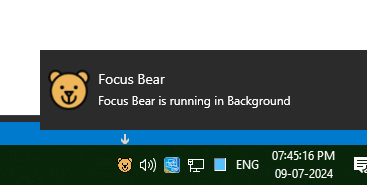
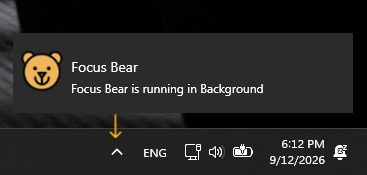
Fix tray menu tour translation and restore the full step-by-step tour (#1515)
* Show tray tour image in Spanish when the app language is Spanish

* Restore step-by-step tray menu tour and update its screenshots

* Register fbmenu-es.png as a build resource

diff --git a/Tour/FocusBearMenuTour.xaml.cs b/Tour/FocusBearMenuTour.xaml.cs
@@ -33,10 +33,12 @@ namespace Focus_Bear.Tour
 
             try
             {
-                btnNextTXT.Text = appSettings.ConfigFileStrings["menuTourVcInfo"]["buttonFinishText"].ToString();
+                btnNextTXT.Text = appSettings.ConfigFileStrings["menuTourVcInfo"]["buttonGetStartedText"].ToString();
                 Heading.Text = appSettings.ConfigFileStrings["menuTourVcInfo"]["title"].ToString();
 
                 Description.Text = appSettings.ConfigFileStrings["menuTourVcInfo"]["descriptionSystemTray"].ToString();
+
+                FBMenu.Source = GetLocalizedImage("fb-tray");
 
                 string sStep = appSettings.ConfigFileStrings["menuTourVcInfo"]["indexText"].ToString();
                 sStep = sStep.Replace("<CURRENTINDEX>", (nStep + 2).ToString()); //1
@@ -47,7 +49,34 @@ namespace Focus_Bear.Tour
             {
                 LogWriter.LogWrite("FocusBearMenuTour setting texts ex - " + ex.Message);
             }
-            
+
+        }
+
+        // Loads Images/{imageName}-{langCode}.png, falling back to Images/{imageName}.png
+        // when there is no image for the current app language yet.
+        private BitmapImage GetLocalizedImage(string imageName)
+        {
+            string folder = "Images";
+            string extension = ".png";
+            string lang = appSettings.sLangCode;
+
+            string localizedPath = $"pack://application:,,,/Focus Bear;component/{folder}/{imageName}-{lang}{extension}";
+            try
+            {
+                var bmp = new BitmapImage();
+                bmp.BeginInit();
+                bmp.CacheOption = BitmapCacheOption.OnLoad;
+                bmp.CreateOptions = BitmapCreateOptions.None;
+                bmp.UriSource = new Uri(localizedPath);
+                bmp.EndInit();
+                return bmp;
+            }
+            catch (Exception ex)
+            {
+                LogWriter.LogWrite("FocusBearMenuTour.GetLocalizedImage - " + ex.Message);
+                string defaultPath = $"pack://application:,,,/Focus Bear;component/{folder}/{imageName}{extension}";
+                return new BitmapImage(new Uri(defaultPath));
+            }
         }
 
         void SetTexts()
@@ -89,9 +118,49 @@ namespace Focus_Bear.Tour
         }
         private void btnNext_Click(object sender, RoutedEventArgs e)
         {
-            appSettings.bMenuOpeningFirstTime = true;
-            Close();
-            return;
+            nStep++;
+            if (nStep == 0) //we started with -1 for system tray info
+            {
+                // Generic intro for the new menu - points at the "Focus Bear" header
+                // row (top of the menu) instead of the middle of the image, since it
+                // isn't calling out a specific row.
+                FBMenu.Source = GetLocalizedImage("fbmenu");
+
+                btnNextTXT.Text = appSettings.ConfigFileStrings["menuTourVcInfo"]["buttonNextText"].ToString();
+                SetTexts();
+                GridPopup.Margin = new Thickness(0, 0, 370, 350);
+                Arrow.Margin = new Thickness(0, 0, 350, 405);
+
+                appSettings.CapturePostHog("menu_tour_next_clicked");
+            }
+            else if (nStep == 1)
+            {
+                // Points at the settings gear icon (top-right of the new tray menu),
+                // not the old "Preferences" row - margins are a first estimate from the
+                // screenshot proportions, unverified against the running app.
+                btnNextTXT.Text = appSettings.ConfigFileStrings["menuTourVcInfo"]["buttonNextText"].ToString();
+                SetTexts();
+                GridPopup.Margin = new Thickness(0, 0, 370, 350);
+                Arrow.Margin = new Thickness(0, 0, 350, 405);
+
+                appSettings.CapturePostHog("menu_tour_next_clicked");
+            }
+            else if (nStep == 2)
+            {
+                // Points at "Start Focus Session", now the top CTA button instead of a
+                // lower row - margins are a first estimate, unverified against the running app.
+                btnNextTXT.Text = appSettings.ConfigFileStrings["menuTourVcInfo"]["buttonFinishText"].ToString();
+                SetTexts();
+                GridPopup.Margin = new Thickness(0, 0, 370, 300);
+                Arrow.Margin = new Thickness(0, 0, 350, 340);
+
+                appSettings.CapturePostHog("menu_tour_next_clicked");
+            }
+            else
+            {
+                appSettings.bMenuOpeningFirstTime = true;
+                Close();
+            }
         }
     }
 }
